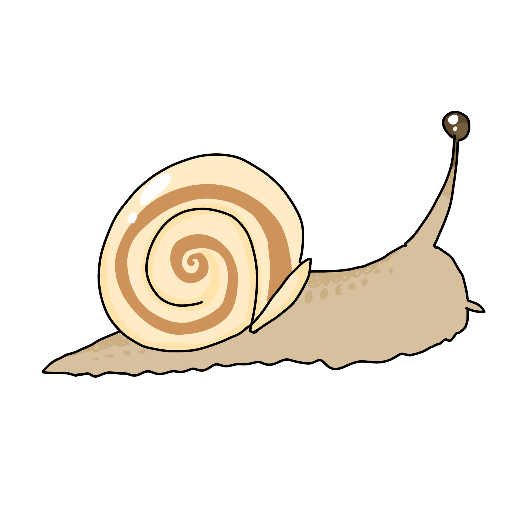
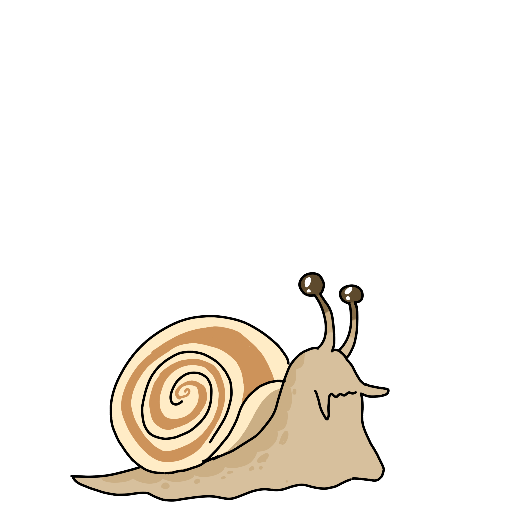
Update snail asset sizing

diff --git a/game.js b/game.js
@@ -66,7 +66,7 @@ const enemyImages = {
 };
 
 const itemImages = {
-  a: loadImage(assetUrl("item_a.png")),
+  a: loadImage(assetUrl("item_a.png?v=20260620-snail")),
   b: loadImage(assetUrl("item_b.png")),
   c: loadImage(assetUrl("item_c.png")),
 };
@@ -84,7 +84,17 @@ let bgmLoadRequested = false;
 let soundEnabled = true;
 
 const itemTypes = [
-  { key: "a", label: "A", motion: "ground", radius: 18, spriteSize: 75, color: "#f0c85a", glow: "rgba(240, 200, 90, 0.20)", speed: 62 },
+  {
+    key: "a",
+    label: "A",
+    motion: "ground",
+    radius: 18,
+    spriteSize: 78.4,
+    groundAnchor: 0.48,
+    color: "#f0c85a",
+    glow: "rgba(240, 200, 90, 0.20)",
+    speed: 62,
+  },
   { key: "b", label: "B", motion: "flutter", radius: 34, spriteSize: 126, color: "#d9bd42", glow: "rgba(240, 200, 90, 0.18)", speed: 148 },
   { key: "c", label: "C", motion: "dragonfly", radius: 30, spriteSize: 118, color: "#74a6cf", glow: "rgba(116, 166, 207, 0.22)", speed: 340 },
 ];
@@ -362,7 +372,7 @@ function spawnItem(now) {
   let y = playableTop + ((lane + 0.5) / laneCount) * (playableBottom - playableTop);
 
   if (type.motion === "ground") {
-    y = v.floorY - spriteSize * 0.22;
+    y = v.floorY - spriteSize * (type.groundAnchor ?? 0.22);
   } else if (type.motion === "flutter") {
     const airLaneCount = v.w < 620 ? 3 : 4;
     const airLane = Math.floor(Math.random() * airLaneCount);
@@ -1180,7 +1190,7 @@ function createResultCardCanvas() {
   }
 
   const rows = [
-    { image: itemImages.a, count: state.itemCounts.a, x: 120 },
+    { image: itemImages.a, count: state.itemCounts.a, x: 120, drawY: -29 },
     { image: itemImages.b, count: state.itemCounts.b, x: 284 },
     { image: itemImages.c, count: state.itemCounts.c, x: 448 },
   ];
@@ -1190,7 +1200,8 @@ function createResultCardCanvas() {
     roundRectOn(card, row.x, 440, 128, 86, 18);
     card.fill();
     if (row.image.complete && row.image.naturalWidth) {
-      card.drawImage(row.image, row.x + 12, 451, 62, 62);
+      const itemSize = row.drawSize ?? 62;
+      card.drawImage(row.image, row.x + 12 + (row.drawX ?? 0), 451 + (row.drawY ?? 0), itemSize, itemSize);
     }
     card.fillStyle = palettes.text;
     drawCountWithUnit(card, row.count, row.x + 78, 495, 32, 17);

diff --git a/style.css b/style.css
@@ -365,6 +365,11 @@ a {
   object-fit: contain;
 }
 
+.result-breakdown img.result-item-snail {
+  transform: translateY(-13px);
+  transform-origin: center center;
+}
+
 .result-breakdown strong {
   display: inline-flex;
   align-items: baseline;
@@ -592,6 +597,10 @@ a {
   .result-breakdown img {
     width: 44px;
     height: 44px;
+  }
+
+  .result-breakdown img.result-item-snail {
+    transform: translateY(-11px);
   }
 
   .result-actions,

diff --git a/games/inutaro-mushi/index.html b/games/inutaro-mushi/index.html
@@ -27,7 +27,7 @@
     <link rel="icon" type="image/png" sizes="32x32" href="../../assets/favicon.png?v=20260616-icon" />
     <link rel="apple-touch-icon" sizes="180x180" href="../../assets/apple-touch-icon.png?v=20260616-icon" />
     <link rel="icon" type="image/png" sizes="192x192" href="../../assets/icon-192.png?v=20260616-icon" />
-    <link rel="stylesheet" href="../../style.css?v=20260620-result-home-local" />
+    <link rel="stylesheet" href="../../style.css?v=20260620-snail-size" />
   </head>
   <body>
     <main class="game-shell">
@@ -71,7 +71,7 @@
         </div>
         <div class="result-breakdown">
           <div>
-            <img src="../../assets/item_a.png" alt="" />
+            <img class="result-item-snail" src="../../assets/item_a.png?v=20260620-snail" alt="" />
             <strong><span id="result-a">0</span><small class="count-unit">ひき</small></strong>
           </div>
           <div>
@@ -107,6 +107,6 @@
         </div>
       </section>
     </main>
-    <script src="../../game.js?v=20260620-result-home-local"></script>
+    <script src="../../game.js?v=20260620-snail-size"></script>
   </body>
 </html>